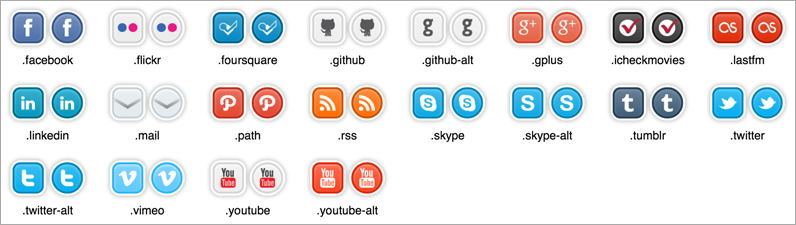
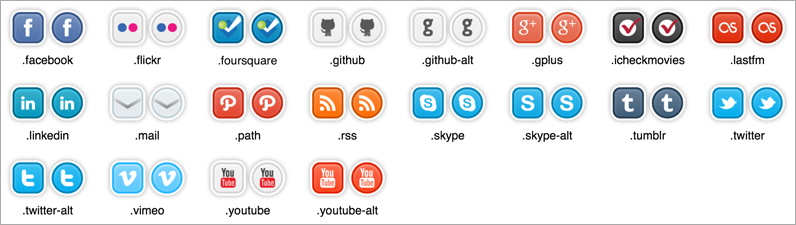
Updated readme and preview image to v.1.2.2

Changed region(s): [[0.2714, 0.0622, 0.3618, 0.1867], [0.2714, 0.2489, 0.3618, 0.3111]]

diff --git a/README.md b/README.md
@@ -25,7 +25,7 @@ The buttons have been tested and approved in the following browsers:
 
 Simply put the CSS file in your project CSS folder and link to it in your `<head>` or copy/paste the content of the `social-buttons.css` into your own CSS file:
 
-Not using all the buttons? You can make your own CSS file that suits your needs with LESS/SASS. Open `social-buttons.(less/scss)` and comment out the `@imports` you don't need at the bottom of the file. Compile it and add the CSS to your project.
+Not using all the buttons? You can make your own CSS file that suits your needs with LESS/SASS. Open `social-buttons.less` or `social-buttons.scss` and comment out the `@imports` you don't need at the bottom of the file. Compile it and add the CSS to your project.
 
 
 
@@ -53,7 +53,7 @@ Don't want fully rounded buttons? Add the class `rounded` for a button with just
 
 - `facebook`
 - `flickr`
-- `foursquare`
+- `foursquare` **!updated**
 - `github` (Octocat)
 - `github-alt` (letter 'g')
 - `gplus`
@@ -63,24 +63,28 @@ Don't want fully rounded buttons? Add the class `rounded` for a button with just
 - `mail`
 - `path`
 - `rss`
-- `skype` (desktop icon) **!new**
+- `skype` (favicon) **!new**
 - `skype-alt` (letter 'S') **!new**
 - `tumblr`
 - `twitter` (Twitter bird)
 - `twitter-alt` (letter 't')
 - `vimeo`
-- `youtube` (black, red and white logo on a white background)
-- `youtube-alt` (white logo on a red background)
+- `youtube` (logo on white background)
+- `youtube-alt` (white logo on red background)
 
 ## Changelog ##
+
+**v.1.2.2**
+
+- Updated `.foursquare` button: changed background-color and replaced the icon with its official (fav)icon: the green ball with white trail.
 
 **v.1.2.1**
 
 - Alphabetical order restored / Remove Trailing Whitespace (thanks [@cafferata](https://github.com/cafferata))
 - Optimizes images: Saved 2,6 KB of 11,1KB (thanks [@cafferata](https://github.com/cafferata))
-- Added an alternative icon for `.skype`: the Skype desktop icon.
+- Added an alternative icon for `.skype`: the Skype favicon.
 - Repositioned both Skype icons to the right column in the sprites.
-- Switched Skype icons: the desktop icon is now the primary icon.
+- Switched Skype icons: the favicon version is now the primary icon.
 - Switched Github icons: the Octocat is now the primary icon.
 - Switched Twitter icons: the Twitter bird is now the primary icon.
 - Changed color of _"White"_ (actually `#F1F2F2`) icons to `#fff`;
@@ -93,7 +97,7 @@ Don't want fully rounded buttons? Add the class `rounded` for a button with just
 - Added two new buttons: `.skype` (thanks [@AMeijerNL](https://github.com/AMeijerNL)) and `.icheckmovies`.
 - Converted sprite from horizontally to vertically orientated (thanks [@AMeijerNL](https://github.com/AMeijerNL)), for smaller file size and load time.
 - Added pointer cursor to button, so that non-anchor elements have the same visual button behaviour as anchor elements.
-- Added source files for both normal and Retina sprites as Adobe Illustrator files (Vectors!)
+- Added source files for both normal and Retina sprites as Adobe Illustrator files.
 
 **v.1.1.0**
 
